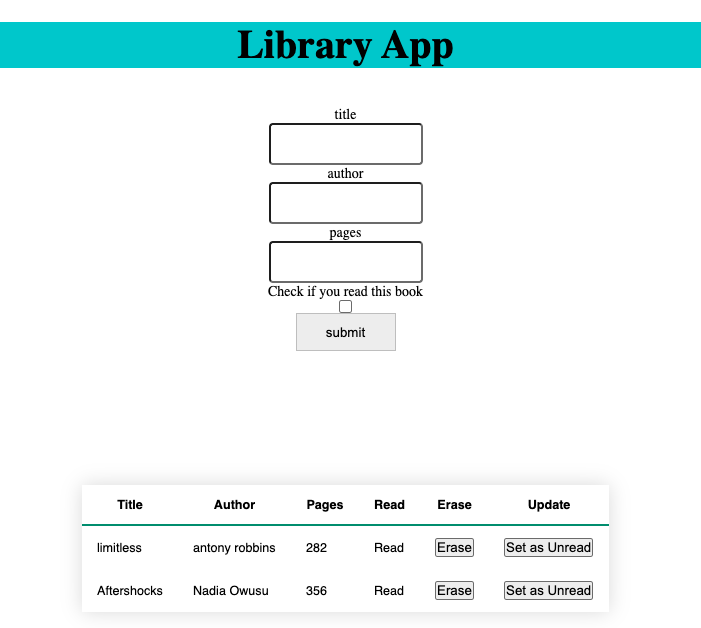
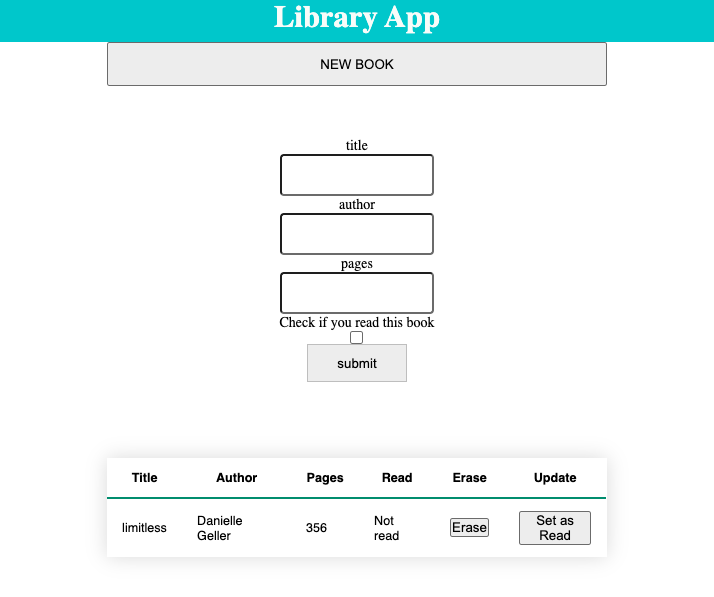
Update main js for Newbook

diff --git a/assets/style/style.css b/assets/style/style.css
@@ -16,7 +16,7 @@ body {
 
 .container {
   width: 70%;
-  height: 80vh;
+  height: 100%;
   margin: auto;
   display: flex;
   flex-direction: column;
@@ -27,6 +27,8 @@ body {
 }
 
 .title {
+  width: 70%;
+  height: 5%;
   display: flex;
   flex-direction: column;
   justify-content: flex-start;
@@ -35,11 +37,17 @@ body {
   width: 100%;
   font-size: 3vw;
   font-weight: 600;
+  color: rgb(250, 252, 250);
+}
+
+.btnNewBook{
+  width: 70%;
+  height: 5%;
 }
 
 .formcontainer {
   width: 70%;
-  height: 30%;
+  height: 40%;
   display: flex;
   flex-direction: column;
   justify-content: center;
@@ -52,7 +60,8 @@ body {
   align-items: center;
   flex-direction: column;
   width: 100%;
-  height: 70%;
+  height: 100%;
+  display: none;
 }
 
 .inputs {
@@ -71,10 +80,10 @@ body {
 
 .result {
   width: 70%;
-  height: 30%;
+  height: 50%;
   display: flex;
   justify-content: center;
-  align-items: center;
+  align-items: flex-start;
 }
 
 .resulttable {

diff --git a/assets/scripts/main.js b/assets/scripts/main.js
@@ -55,7 +55,11 @@ function newTdForRowButton(tr) {
 
 function displayForm() {
   const dform = document.getElementById('bookForm');
-  dform.classList.toggle('d-none');
+  if (dform.style.display === 'none') {
+    dform.style.display = 'flex';
+  } else {
+    dform.style.display = 'none';
+  }
 }
 
 function eraseBook(index) {
@@ -109,7 +113,7 @@ function showBooks() {
 }
 
 document.addEventListener('click', (e) => {
-  if (e.target && e.target.id === 'd-form') {
+  if (e.target && e.target.id === 'idNewBook') {
     displayForm();
   } else if (e.target && e.target.id === 'submitForm') {
     insertBookLibraryCollection();

diff --git a/index.html b/index.html
@@ -8,6 +8,7 @@
     <body>
         <div class="container">
             <div class="title"> Library App</div>
+            <button id="idNewBook" class="btnNewBook">NEW BOOK</button>
 
             <div class="formcontainer">
                 <form id="bookForm" class="form" > 
